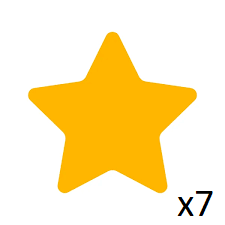
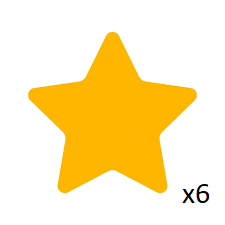
Balance changes for goals

Changed region(s): [[0.7778, 0.8089, 0.9644, 0.9644]]

diff --git a/src/lib/goals.ts b/src/lib/goals.ts
@@ -6,8 +6,8 @@ export const goals: Record<string, GoalInfo> = {
     image: "images/goal-chocolate-collector.png",
     matches: ["chocolate-chip", "chocolate-fudge",
               "peanut-butter-chocolate", "creme-sandwich"],
-    requiredCount: NUM_PLAYERS * 2,
-    tooltip: "Chocolate Collector (2 * number of players)",
+    requiredCount: 6,
+    tooltip: "Chocolate Collector (6)",
   },
   "peanut-butter-collector": {
     image: "images/goal-peanut-butter-collector.png",
@@ -23,8 +23,8 @@ export const goals: Record<string, GoalInfo> = {
   },
   "unique-collector": {
     image: "images/goal-unique-collector.png",
-    requiredCount: 7,
-    tooltip: "Unique Collector (7)",
+    requiredCount: 6,
+    tooltip: "Unique Collector (6)",
   },
   "same-collector": {
     image: "images/goal-same-collector.png",

diff --git a/README.md b/README.md
@@ -33,13 +33,13 @@ The following types of cookies are available in the game.
 
 The following goals are available in the game.
 
-| Goal Name               | Goal Description                                               | Goal Image                                                |
-| ----------------------- | -------------------------------------------------------------- | --------------------------------------------------------- |
-| Chocolate Collector     | Collect chocolate cookies equal to twice the number of players | ![gcc](./public/images/goal-chocolate-collector.png)      |
-| Peanut Butter Collector | Collect peanut butter cookies equal to the number of players   | ![gpbc](./public/images/goal-peanut-butter-collector.png) |
-| Same Collector          | Collect 3 pairs of cookies                                     | ![gsc](./public/images/goal-same-collector.png)           |
-| Sugar Collector         | Collect sugar cookies equal to the number of players           | ![gsuc](images/goal-sugar-collector.png)                  |
-| Unique Collector        | Collect 7 unique cookies                                       | ![guc](./public/images/goal-unique-collector.png)         |
+| Goal Name               | Goal Description                                             | Goal Image                                                |
+| ----------------------- | ------------------------------------------------------------ | --------------------------------------------------------- |
+| Chocolate Collector     | Collect 6 chocolate cookies                                  | ![gcc](./public/images/goal-chocolate-collector.png)      |
+| Peanut Butter Collector | Collect peanut butter cookies equal to the number of players | ![gpbc](./public/images/goal-peanut-butter-collector.png) |
+| Same Collector          | Collect 3 pairs of cookies                                   | ![gsc](./public/images/goal-same-collector.png)           |
+| Sugar Collector         | Collect sugar cookies equal to the number of players         | ![gsuc](images/goal-sugar-collector.png)                  |
+| Unique Collector        | Collect 6 unique cookies                                     | ![guc](./public/images/goal-unique-collector.png)         |
 
 The following types of cookies qualify for the collector goals:
 
